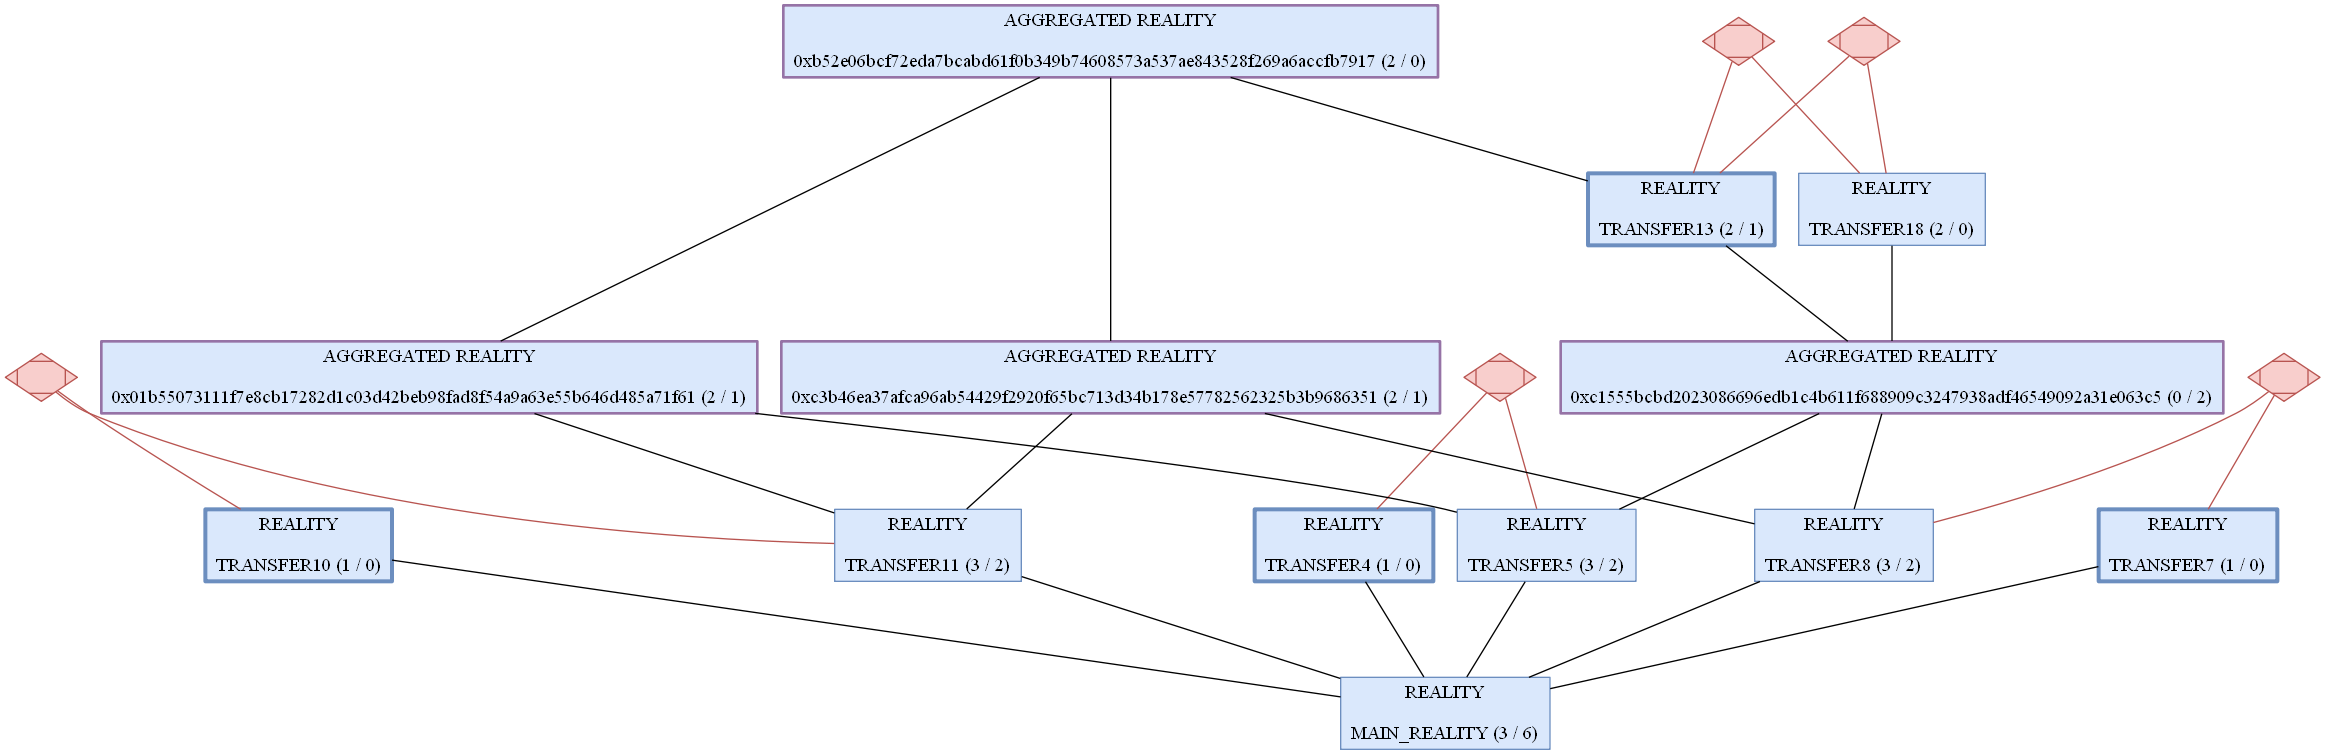
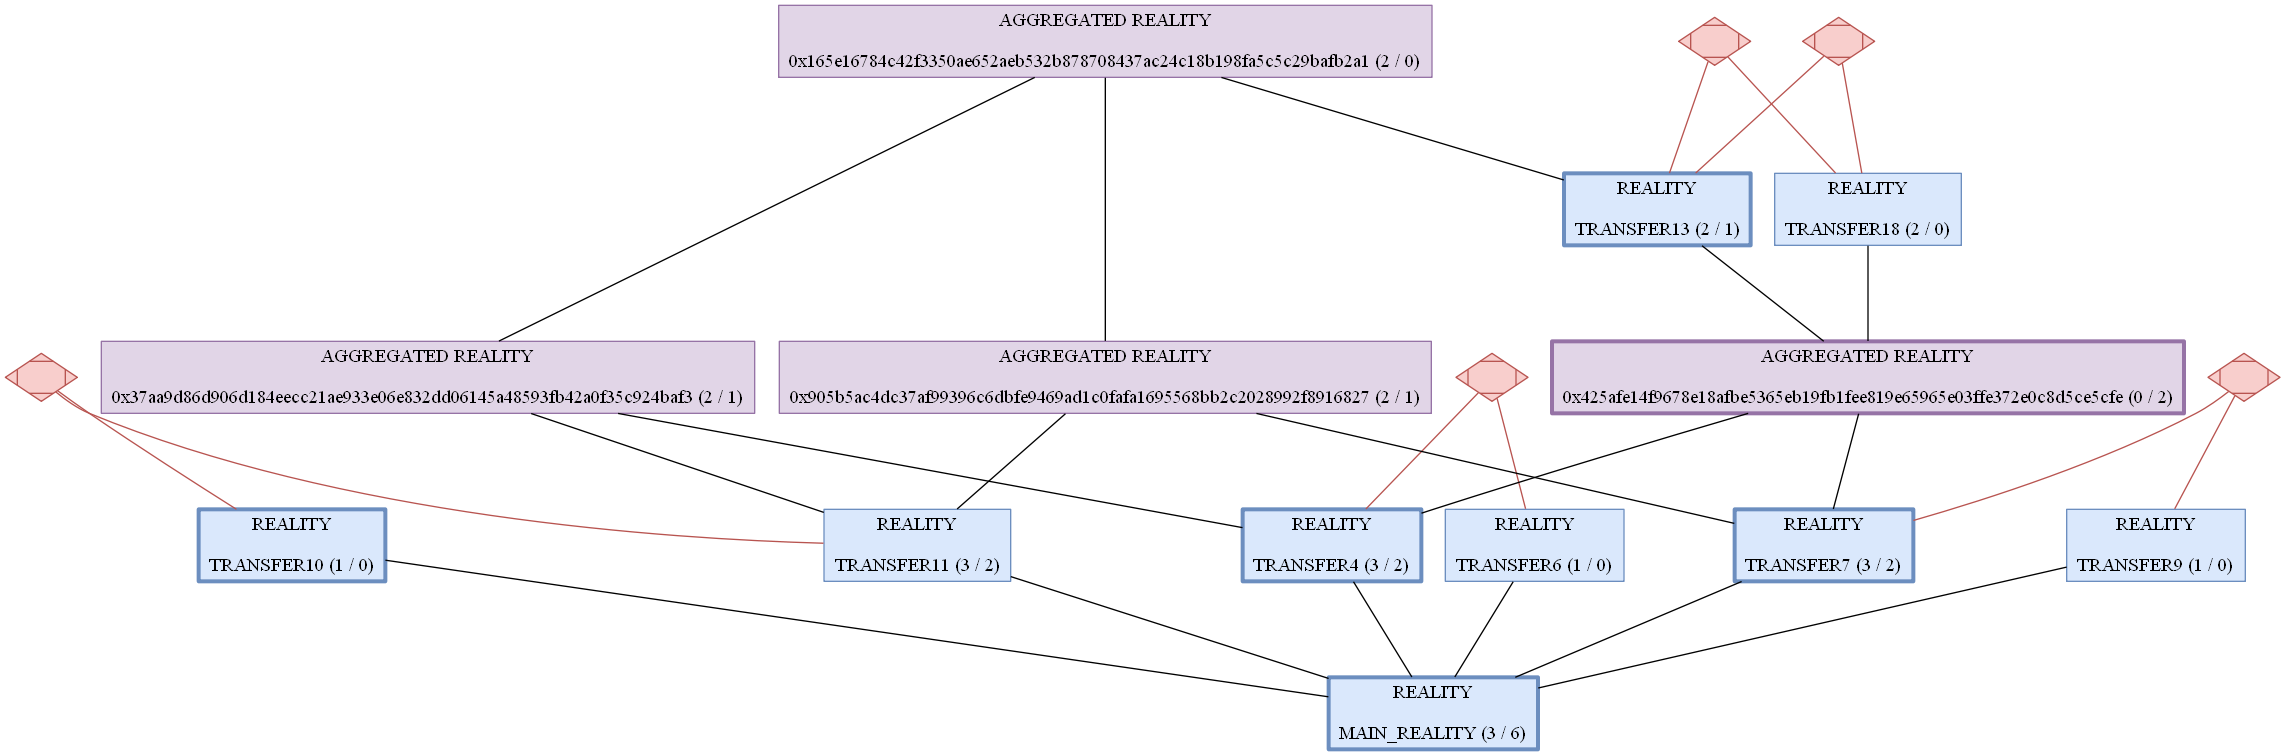
Feat: liked and preferred flag gets correctly propagated

diff --git a/packages/ledgerstate/reality.go b/packages/ledgerstate/reality.go
@@ -21,11 +21,142 @@ type Reality struct {
 	conflictIds           ConflictIdSet
 	conflictIdsMutex      sync.RWMutex
 	transferOutputCount   uint32
+	preferred             bool
+	preferredMutex        sync.RWMutex
 	liked                 bool
 	likedMutex            sync.RWMutex
 
 	storageKey  []byte
 	ledgerState *LedgerState
+}
+
+func (reality *Reality) areParentsLiked() (parentsLiked bool) {
+	parentsLiked = true
+	for _, cachedParentReality := range reality.GetParentRealities() {
+		if parentsLiked {
+			cachedParentReality.Consume(func(object objectstorage.StorableObject) {
+				parentsLiked = parentsLiked && object.(*Reality).IsLiked()
+			})
+		} else {
+			cachedParentReality.Release()
+		}
+	}
+
+	return
+}
+
+func (reality *Reality) propagateLiked() {
+	reality.likedMutex.Lock()
+	reality.liked = true
+	reality.likedMutex.Unlock()
+
+	reality.SetModified()
+
+	for _, cachedSubReality := range reality.GetSubRealities() {
+		if !cachedSubReality.Exists() {
+			cachedSubReality.Release()
+
+			// TODO: SWITCH TO ERR INSTEAD OF PANIC
+			panic("could not load sub reality")
+		}
+
+		cachedSubReality.Consume(func(object objectstorage.StorableObject) {
+			subReality := object.(*Reality)
+
+			subReality.parentRealityIdsMutex.RLock()
+			if len(subReality.parentRealityIds) == 1 && subReality.parentRealityIds.Contains(reality.id) {
+				subReality.parentRealityIdsMutex.RUnlock()
+
+				subReality.propagateLiked()
+			} else {
+				subReality.parentRealityIdsMutex.RUnlock()
+
+				if subReality.areParentsLiked() {
+					subReality.propagateLiked()
+				}
+			}
+		})
+	}
+}
+
+func (reality *Reality) propagateDisliked() {
+	reality.likedMutex.Lock()
+	reality.liked = false
+	reality.likedMutex.Unlock()
+
+	reality.SetModified()
+
+	for _, cachedSubReality := range reality.GetSubRealities() {
+		if !cachedSubReality.Exists() {
+			cachedSubReality.Release()
+
+			// TODO: SWITCH TO ERR INSTEAD OF PANIC
+			panic("could not load sub reality")
+		}
+
+		cachedSubReality.Consume(func(object objectstorage.StorableObject) {
+			subReality := object.(*Reality)
+
+			if subReality.IsLiked() {
+				subReality.propagateDisliked()
+			}
+		})
+	}
+}
+
+func (reality *Reality) GetSubRealities() (subRealities objectstorage.CachedObjects) {
+	reality.subRealityIdsMutex.RLock()
+	subRealities = make(objectstorage.CachedObjects, len(reality.subRealityIds))
+	i := 0
+	for subRealityId := range reality.subRealityIds {
+		subRealities[i] = reality.ledgerState.GetReality(subRealityId)
+
+		i++
+	}
+	reality.subRealityIdsMutex.RUnlock()
+
+	return
+}
+
+func (reality *Reality) SetPreferred(preferred ...bool) (updated bool) {
+	newPreferredValue := len(preferred) == 0 || preferred[0]
+
+	reality.preferredMutex.RLock()
+	if reality.preferred != newPreferredValue {
+		reality.preferredMutex.RUnlock()
+
+		reality.preferredMutex.Lock()
+		if reality.preferred != newPreferredValue {
+			reality.preferred = newPreferredValue
+
+			if newPreferredValue {
+				if reality.areParentsLiked() {
+					reality.propagateLiked()
+				}
+			} else {
+				if reality.IsLiked() {
+					reality.propagateDisliked()
+				}
+			}
+
+			updated = true
+
+			reality.SetModified()
+		}
+		reality.preferredMutex.Unlock()
+	} else {
+		reality.preferredMutex.RUnlock()
+	}
+
+	return
+}
+
+func (reality *Reality) IsPreferred() (preferred bool) {
+	reality.preferredMutex.RLock()
+	preferred = reality.preferred
+	reality.preferredMutex.RUnlock()
+
+	return
 }
 
 // region DONE REVIEWING ///////////////////////////////////////////////////////////////////////////////////////////////
@@ -45,7 +176,7 @@ func newReality(id RealityId, parentRealities ...RealityId) *Reality {
 	return result
 }
 
-func (reality *Reality) GetLiked() (liked bool) {
+func (reality *Reality) IsLiked() (liked bool) {
 	reality.likedMutex.RLock()
 	liked = reality.liked
 	reality.likedMutex.RUnlock()
@@ -63,6 +194,8 @@ func (reality *Reality) SetLiked(liked ...bool) (likedStatusChanged bool) {
 		reality.likedMutex.Lock()
 		if reality.liked != newLikedStatus {
 			reality.liked = newLikedStatus
+
+			likedStatusChanged = true
 
 			reality.SetModified()
 		}
@@ -479,7 +612,7 @@ func (reality *Reality) createRealityForPreviouslyUnconflictingConsumers(consume
 		if cachedElevatedReality, realityErr := reality.ledgerState.realities.ComputeIfAbsent(elevatedRealityId[:], func(key []byte) (object objectstorage.StorableObject, e error) {
 			newReality := newReality(elevatedRealityId, reality.id)
 			newReality.ledgerState = reality.ledgerState
-			newReality.SetLiked()
+			newReality.SetPreferred()
 
 			reality.RegisterSubReality(elevatedRealityId)
 

diff --git a/packages/ledgerstate/ledgerstate_test.go b/packages/ledgerstate/ledgerstate_test.go
@@ -216,11 +216,11 @@ func multiSpend(ledgerState *LedgerState, outputCount int, transferOutputReferen
 func TestAggregateAggregatedRealities(t *testing.T) {
 	ledgerState, transferOutputs := initializeLedgerStateWithBalances(3)
 
-	multiSpend(ledgerState, 1, transferOutputs[0])
 	outputs0 := multiSpend(ledgerState, 2, multiSpend(ledgerState, 1, transferOutputs[0])[0])
+	multiSpend(ledgerState, 1, transferOutputs[0])
 
-	multiSpend(ledgerState, 1, transferOutputs[1])
 	outputs1 := multiSpend(ledgerState, 2, multiSpend(ledgerState, 1, transferOutputs[1])[0])
+	multiSpend(ledgerState, 1, transferOutputs[1])
 
 	multiSpend(ledgerState, 1, transferOutputs[2])
 	outputs2 := multiSpend(ledgerState, 2, multiSpend(ledgerState, 1, transferOutputs[2])[0])
@@ -236,8 +236,8 @@ func TestAggregateAggregatedRealities(t *testing.T) {
 
 	objectstorage.WaitForWritesToFlush()
 
-	fmt.Println(ledgerState.GenerateRealityVisualization("realities1.png"))
-	NewVisualizer(ledgerState).RenderTransferOutputs("outputs1.png")
+	_ = ledgerState.GenerateRealityVisualization("realities1.png")
+	_ = NewVisualizer(ledgerState).RenderTransferOutputs("outputs1.png")
 
 	multiSpend(ledgerState, 2, outputs0[0], outputs1[0])
 
@@ -245,8 +245,8 @@ func TestAggregateAggregatedRealities(t *testing.T) {
 
 	objectstorage.WaitForWritesToFlush()
 
-	ledgerState.GenerateRealityVisualization("realities2.png")
-	NewVisualizer(ledgerState).RenderTransferOutputs("outputs2.png")
+	_ = ledgerState.GenerateRealityVisualization("realities2.png")
+	_ = NewVisualizer(ledgerState).RenderTransferOutputs("outputs2.png")
 }
 
 func TestElevateAggregatedReality(t *testing.T) {
@@ -268,20 +268,20 @@ func TestElevateAggregatedReality(t *testing.T) {
 	spend(ledgerState, doubleSpentOutputs1[1])
 
 	// double spend funds of aggregated reality
-	//spend(ledgerState, spentInput, doubleSpentOutputs2[0])
+	// spend(ledgerState, spentInput, doubleSpentOutputs2[0])
 
 	// spend funds of conflict in aggregated reality further
-	//lastOutputOfAggregatedReality := spend(ledgerState, outputOfAggregatedReality)
+	// lastOutputOfAggregatedReality := spend(ledgerState, outputOfAggregatedReality)
 
-	//spend(ledgerState, lastOutputOfAggregatedReality, doubleSpentOutputs3[1])
+	// spend(ledgerState, lastOutputOfAggregatedReality, doubleSpentOutputs3[1])
 	spend(ledgerState, spend(ledgerState, spend(ledgerState, outputOfAggregatedReality, spend(ledgerState, doubleSpentOutputs3[1]))))
 
 	time.Sleep(1000 * time.Millisecond)
 
 	objectstorage.WaitForWritesToFlush()
 
-	ledgerState.GenerateRealityVisualization("realities.png")
-	NewVisualizer(ledgerState).RenderTransferOutputs("outputs.png")
+	_ = ledgerState.GenerateRealityVisualization("realities.png")
+	_ = NewVisualizer(ledgerState).RenderTransferOutputs("outputs.png")
 }
 
 func TestElevate(t *testing.T) {

diff --git a/packages/ledgerstate/ledgerstate.go b/packages/ledgerstate/ledgerstate.go
@@ -36,6 +36,7 @@ func NewLedgerState(storageId string) *LedgerState {
 
 	mainReality := newReality(MAIN_REALITY_ID)
 	mainReality.ledgerState = result
+	mainReality.SetPreferred()
 	result.realities.Store(mainReality).Release()
 
 	return result
@@ -194,8 +195,7 @@ func (ledgerState *LedgerState) GenerateRealityVisualization(pngFilename string)
 				realityNode.Attr("style", "filled")
 				realityNode.Attr("shape", "rect")
 				realityNode.Attr("color", "#9673A6")
-				realityNode.Attr("fillcolor", "#DAE8FC")
-				realityNode.Attr("penwidth", "2.0")
+				realityNode.Attr("fillcolor", "#E1D5E7")
 			} else {
 				realityNode = graph.Node("REALITY\n\n" + strings.Trim(reality.id.String(), "\x00") + " (" + strconv.Itoa(int(reality.GetTransferOutputCount())) + " / " + strconv.Itoa(len(reality.subRealityIds)) + ")")
 				realityNode.Attr("style", "filled")
@@ -204,7 +204,7 @@ func (ledgerState *LedgerState) GenerateRealityVisualization(pngFilename string)
 				realityNode.Attr("fillcolor", "#DAE8FC")
 			}
 
-			if reality.GetLiked() {
+			if reality.IsLiked() {
 				realityNode.Attr("penwidth", "3.0")
 			}
 
@@ -313,12 +313,17 @@ func (ledgerState *LedgerState) AggregateRealities(realityIds ...RealityId) *obj
 		parentConflictRealities := make(map[RealityId]*objectstorage.CachedObject)
 		aggregatedRealityParentIds := make([]RealityId, len(aggregatedRealities))
 
+		aggregatedRealityIsPreferred := true
+
 		counter := 0
 		for aggregatedRealityId, cachedAggregatedReality := range aggregatedRealities {
 			aggregatedRealityParentIds[counter] = aggregatedRealityId
 			counter++
 
 			aggregatedReality := cachedAggregatedReality.Get().(*Reality)
+
+			aggregatedRealityIsPreferred = aggregatedRealityIsPreferred && aggregatedReality.IsPreferred()
+
 			if !aggregatedReality.IsAggregated() {
 				parentConflictRealities[aggregatedRealityId] = cachedAggregatedReality
 			} else {
@@ -334,6 +339,7 @@ func (ledgerState *LedgerState) AggregateRealities(realityIds ...RealityId) *obj
 		if newCachedAggregatedReality, err := ledgerState.realities.ComputeIfAbsent(aggregatedRealityId[:], func(key []byte) (object objectstorage.StorableObject, e error) {
 			aggregatedReality := newReality(aggregatedRealityId, aggregatedRealityParentIds...)
 			aggregatedReality.ledgerState = ledgerState
+			aggregatedReality.SetPreferred(aggregatedRealityIsPreferred)
 
 			for _, parentRealityId := range aggregatedRealityParentIds {
 				ledgerState.GetReality(parentRealityId).Consume(func(object objectstorage.StorableObject) {
@@ -387,6 +393,7 @@ func (ledgerState *LedgerState) Prune() *LedgerState {
 
 	mainReality := newReality(MAIN_REALITY_ID)
 	mainReality.ledgerState = ledgerState
+	mainReality.SetPreferred()
 	ledgerState.realities.Store(mainReality).Release()
 
 	return ledgerState

diff --git a/packages/ledgerstate/reality_id_set.go b/packages/ledgerstate/reality_id_set.go
@@ -12,6 +12,12 @@ func NewRealityIdSet(realityIds ...RealityId) (realityIdSet RealityIdSet) {
 	return
 }
 
+func (realityIdSet RealityIdSet) Contains(realityId RealityId) bool {
+	_, exists := realityIdSet[realityId]
+
+	return exists
+}
+
 func (realityIdSet RealityIdSet) Add(realityId RealityId) RealityIdSet {
 	realityIdSet[realityId] = void
 
